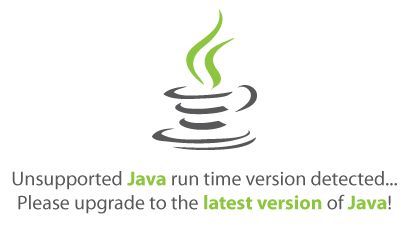
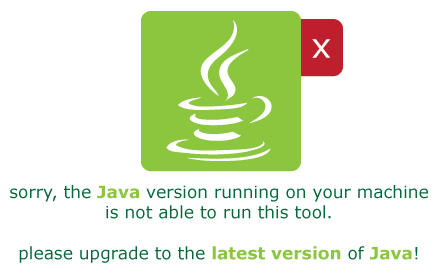
Now check if Java version is 1.6+. Closes #49

diff --git a/src/main/java/org/isatools/isacreator/gui/menu/UnSupportedJava.java b/src/main/java/org/isatools/isacreator/gui/menu/UnSupportedJava.java
@@ -39,9 +39,11 @@ package org.isatools.isacreator.gui.menu;
 
 import org.isatools.isacreator.common.UIHelper;
 import org.jdesktop.fuse.InjectedResource;
+import org.jdesktop.fuse.ResourceInjector;
 
 import javax.swing.*;
 import java.awt.*;
+import java.awt.event.MouseAdapter;
 import java.awt.event.MouseEvent;
 import java.awt.event.MouseListener;
 
@@ -56,30 +58,25 @@ import java.awt.event.MouseListener;
 public class UnSupportedJava extends MenuUIComponent {
 
     @InjectedResource
-    private ImageIcon exitButtonSml, exitButtonSmlOver;
+    private ImageIcon exitButtonSml, exitButtonSmlOver, unsupported;
 
     public UnSupportedJava(ISAcreatorMenu menu) {
         super(menu);
-        setPreferredSize(new Dimension(400, 400));
+        setPreferredSize(new Dimension(436, 350));
         setLayout(new BorderLayout());
         setOpaque(false);
     }
 
     public void createGUI() {
 
-        JLabel image = new JLabel(new ImageIcon(getClass().getResource("/images/gui/unsupported_java.png")), SwingConstants.CENTER);
+        JLabel image = new JLabel(unsupported, SwingConstants.CENTER);
         add(image, BorderLayout.CENTER);
 
         final JLabel exit = new JLabel(exitButtonSml, JLabel.CENTER);
-        exit.addMouseListener(new MouseListener() {
-            public void mouseClicked(MouseEvent event) {
-            }
+        exit.addMouseListener(new MouseAdapter() {
 
             public void mousePressed(MouseEvent event) {
                 System.exit(0);
-            }
-
-            public void mouseReleased(MouseEvent event) {
             }
 
             public void mouseEntered(MouseEvent event) {

diff --git a/src/main/java/org/isatools/isacreator/gui/ISAcreator.java b/src/main/java/org/isatools/isacreator/gui/ISAcreator.java
@@ -334,7 +334,7 @@ public class ISAcreator extends AniSheetableJFrame implements OntologyConsumer {
         String version = System.getProperty("java.version");
         System.out.println("java runtime environment version is : " + version);
         char minorVersion = version.charAt(2);
-        return minorVersion >= '6';
+        return minorVersion >= '7';
     }
 
     private void createTopPanel() {
